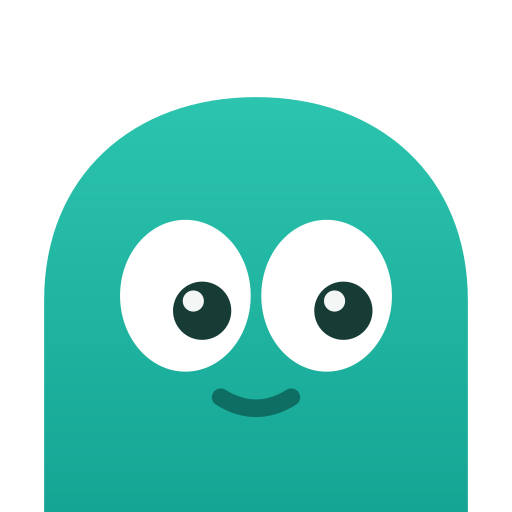
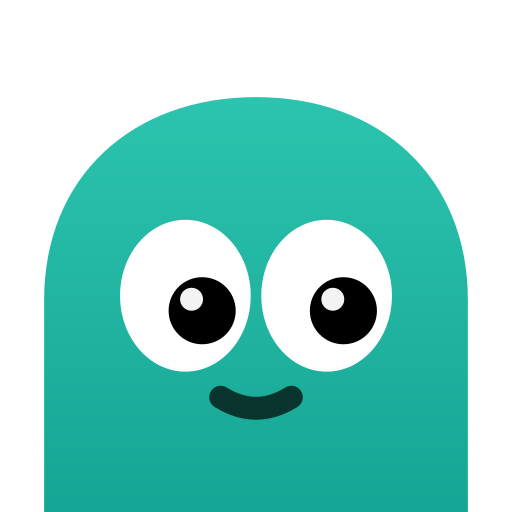
Boost mascot pupil/mouth contrast for small-size legibility (#28)
The pupil circles (r=3.3, near-black #173b35) and mouth stroke
(2px, #0e6e63) were tuned for the 128px reference render but wash
out under real-world compression and downscaling on mobile — the
16px manifest icon lost its face almost entirely. Enlarge the
pupils, switch them to pure black, and thicken/darken the mouth
stroke in both the trigger SVG (content.js) and the mascot source
SVG, then regenerate the manifest/store PNG exports from it.

Claude-Session: https://claude.ai/code/session_01CAhn5UFxSHdeuNRGRdqdkK

Changed region(s): [[0.5938, 0.5312, 0.75, 0.6875], [0.3125, 0.5312, 0.4688, 0.6875], [0.4062, 0.75, 0.5938, 0.8438]]

diff --git a/extension/content.js b/extension/content.js
@@ -779,13 +779,13 @@
   <path d="M29 3 C43 3 53 12 53 26 L53 50 L5 50 L5 26 C5 12 15 3 29 3 Z" fill="url(#ctxaMg)"/>
   <g class="ctxa-mas-pup">
     <g><ellipse cx="21" cy="25.5" rx="7.4" ry="8.6" fill="#fff"/>
-       <circle cx="22.9" cy="27.2" r="3.3" fill="#173b35"/>
-       <circle cx="21.9" cy="26.1" r="1.2" fill="#fff" opacity=".95"/></g>
+       <circle cx="22.9" cy="27.2" r="3.8" fill="#000"/>
+       <circle cx="21.7" cy="25.9" r="1.3" fill="#fff" opacity=".95"/></g>
     <g class="ctxa-mas-wink"><ellipse cx="37" cy="25.5" rx="7.4" ry="8.6" fill="#fff"/>
-       <circle cx="38.9" cy="27.2" r="3.3" fill="#173b35"/>
-       <circle cx="37.9" cy="26.1" r="1.2" fill="#fff" opacity=".95"/></g>
+       <circle cx="38.9" cy="27.2" r="3.8" fill="#000"/>
+       <circle cx="37.7" cy="25.9" r="1.3" fill="#fff" opacity=".95"/></g>
   </g>
-  <path d="M25 37 Q29 39.5 33 37" stroke="#0e6e63" stroke-width="2" fill="none" stroke-linecap="round"/>
+  <path d="M25 37 Q29 39.5 33 37" stroke="#0a352f" stroke-width="2.6" fill="none" stroke-linecap="round"/>
   <ellipse class="ctxa-mas-whisp" cx="41" cy="37" rx="4.6" ry="3.4" fill="#2cc4ae"/>
 </svg>`;
 
